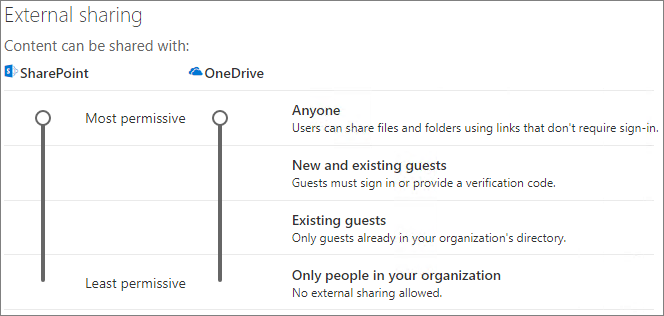
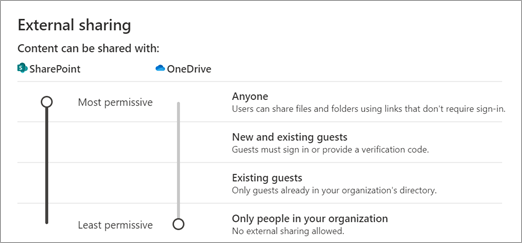
Updated screen shot and text tweaks

diff --git a/SharePoint/SharePointOnline/what-s-new-in-admin-center.md b/SharePoint/SharePointOnline/what-s-new-in-admin-center.md
@@ -30,9 +30,9 @@ We're continuously adding new features to the new SharePoint admin center and fi
 - On the Active sites page, you can select and replace the root site.
 - On the Active sites page, you can point to a name in the Primary admin column or on the Permissions tab of the details panel and see more info about the person. 
 - On the Active sites page, the details panel that appears when you select a site has been redesigned to divide the information among multiple tabs. 
-- When you select a site and select **Sharing**, you can change the default sharing link type and default link permissions for the site. 
-- A new experience that lets you manage all site admins in one panel, view site members and visitors, and add site admins to sites that belong to Office 365 groups. 
-- The Settings page has been redesigned so you can see the value for settings on the main page.
+- On the Active sites page, when you select a site and then select **Sharing**, you can change the default sharing link type and default link permissions for the site. 
+- On the Active sites page, a new experience lets you manage all site admins in one panel, view site members and visitors, and add site admins to sites that belong to Office 365 groups. 
+- The Settings page has been redesigned to let you see the value for each setting without selecting each one for more info.
 - Classic features can now be found under **More features**.
 
 ## November 2019

diff --git a/SharePoint/SharePointOnline/manage-site-creation.md b/SharePoint/SharePointOnline/manage-site-creation.md
@@ -45,7 +45,7 @@ As a global or SharePoint admin in Office 365, you can let your users create and
 5. Select **Let users create sites from the SharePoint start page and OneDrive** if you want users to be able to create sites from these services.
 
     > [!NOTE]
-    > Even if you clear this check box, users may be able to create Office 365 groups from other places in Office 365. Each group always comes with a team site.[Learn how to manage who can create Office 365 groups](/office365/admin/create-groups/manage-creation-of-groups)
+    > Even if you clear this check box, users may be able to create Office 365 groups from other places in Office 365. Each group always comes with a team site. [Learn how to manage who can create Office 365 groups](/office365/admin/create-groups/manage-creation-of-groups)
 
 6. Select to create Office 365 group-connected team sites under /sites or /teams, select the default time zone and storage limit for new sites.
 
